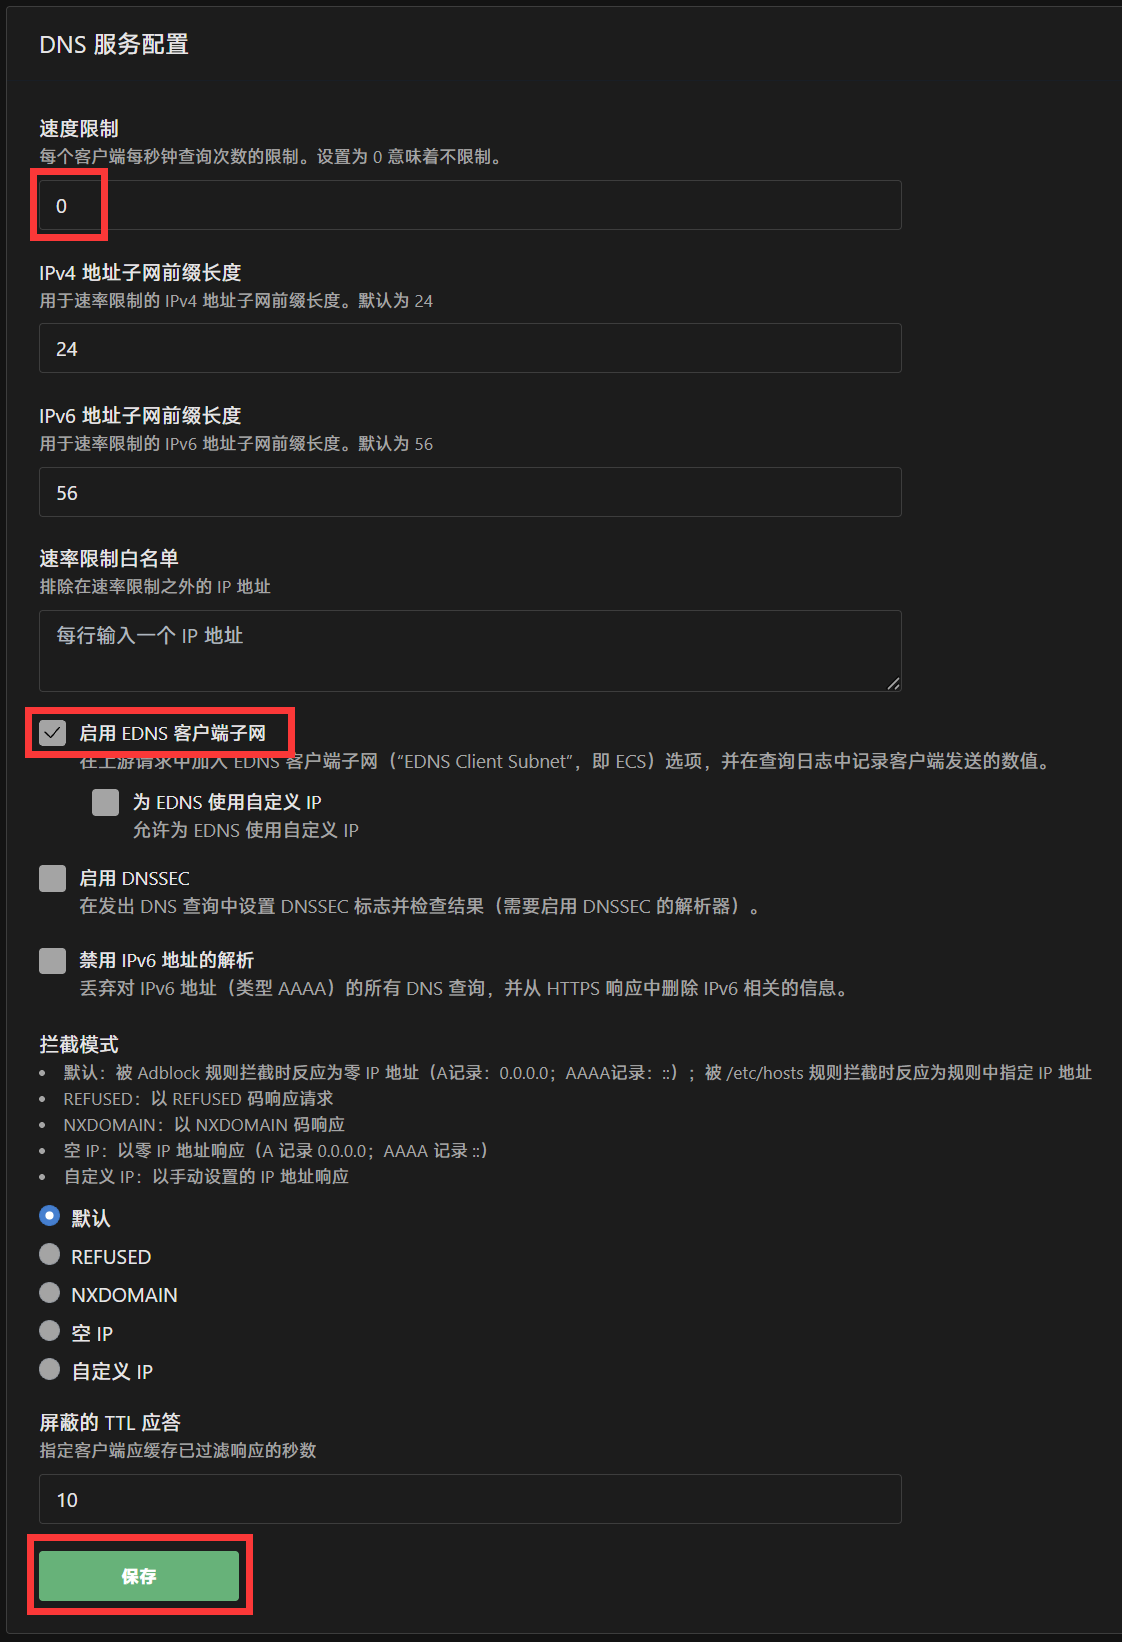
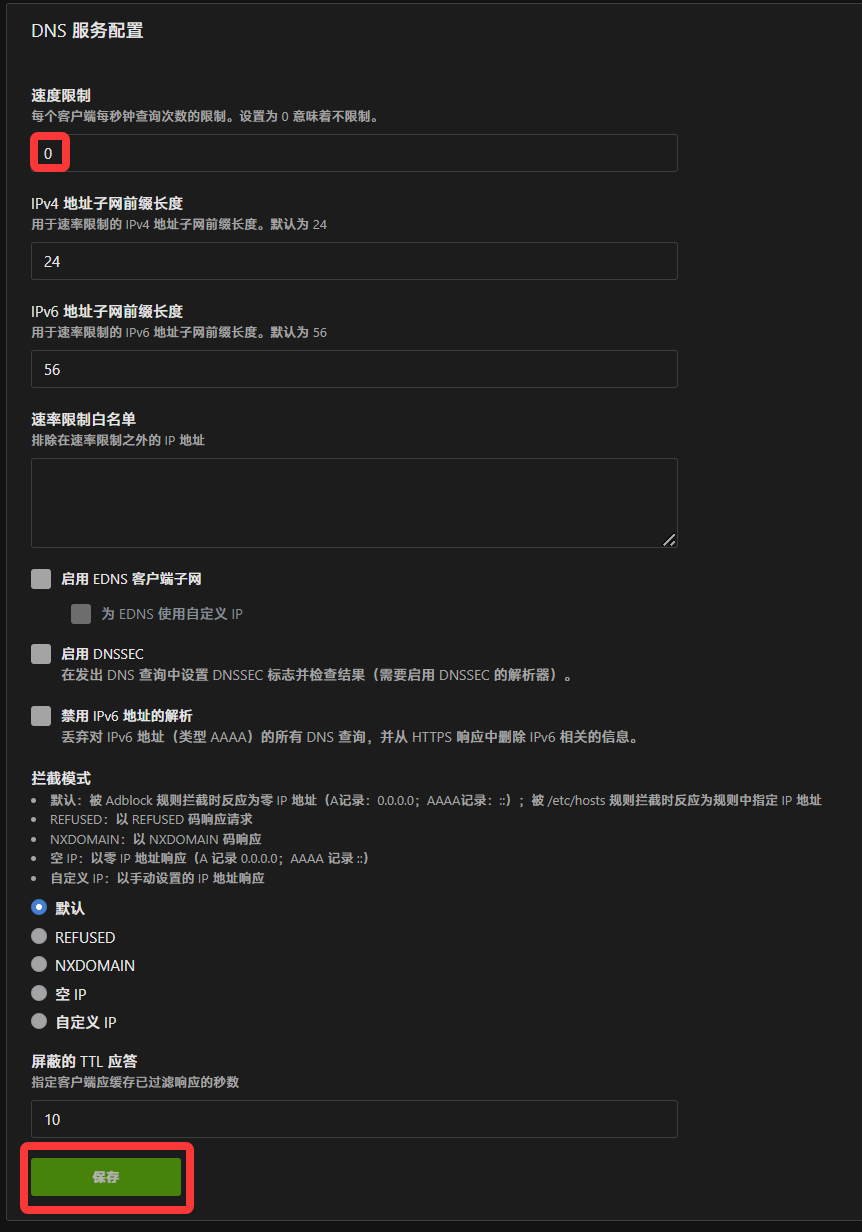
删除 AdGuard Home 里的 EDNS 设置

diff --git a/_posts/2024-08-21-pin-shellcrashadguardhome-mihomo.md b/_posts/2024-08-21-pin-shellcrashadguardhome-mihomo.md
@@ -413,7 +413,7 @@ echo -e '12345678\n12345678' | passwd root
   - ➍ 直接点击“应用”即可  
     <img src="/assets/img/pin/adguardhome-dns.png" alt="AdGuard Home 配置 2" width="60%" />
 
-  - ➎ “速度限制”输入 `0`，勾选“启用 EDNS 客户端子网”，然后点击下方的“保存”  
+  - ➎ “速度限制”输入 `0`，然后点击下方的“保存”  
     <img src="/assets/img/pin/adguardhome-dns-service.png" alt="AdGuard Home 配置 3" width="60%" />
 
   - ➏ 勾选“乐观缓存”，并点击“保存”  

diff --git a/_posts/2024-08-21-pin-shellcrashadguardhome-singboxp.md b/_posts/2024-08-21-pin-shellcrashadguardhome-singboxp.md
@@ -418,7 +418,7 @@ echo -e '12345678\n12345678' | passwd root
   - ➍ 直接点击“应用”即可  
     <img src="/assets/img/pin/adguardhome-dns.png" alt="AdGuard Home 配置 2" width="60%" />
 
-  - ➎ “速度限制”输入 `0`，勾选“启用 EDNS 客户端子网”，然后点击下方的“保存”  
+  - ➎ “速度限制”输入 `0`，然后点击下方的“保存”  
     <img src="/assets/img/pin/adguardhome-dns-service.png" alt="AdGuard Home 配置 3" width="60%" />
 
   - ➏ 勾选“乐观缓存”，并点击“保存”  
